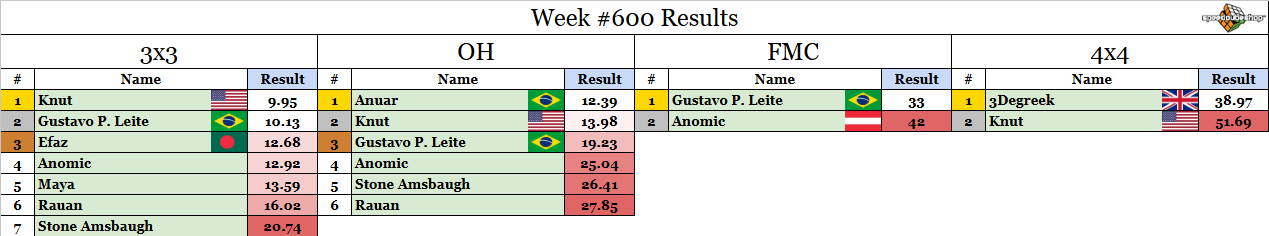
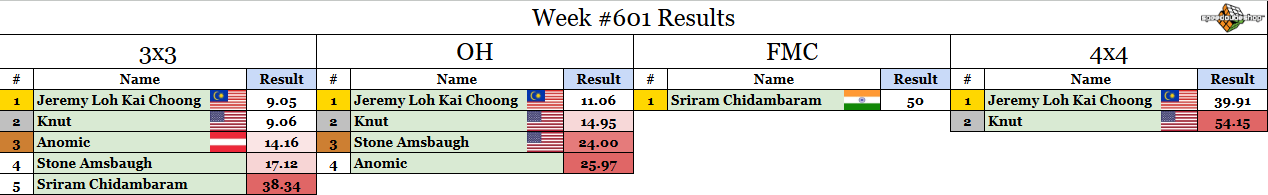
weekly comp update

diff --git a/src/weeklycomp/post.md b/src/weeklycomp/post.md
@@ -4,7 +4,7 @@ Sponsored by SpeedCubeShop
 Shop here: [speedcubeshop.com/rouxcomp](https://speedcubeshop.com/rouxcomp)
 Use code ROUX for 5% off
 
-One competitor will be selected at random to receive a $5 SCS gift card! Congrats to last week's winner by a random draw: **Stone Amsbaugh**. DM me for the prize. 
+One competitor will be selected at random to receive a $5 SCS gift card! Congrats to last week's winner by a random draw: **Anomic**. DM me for the prize. 
  
 Check whether or not you participated this week yet at [https://bit.ly/RMSWeeklyCompSummary](https://bit.ly/RMSWeeklyCompSummary)  
  
@@ -18,30 +18,28 @@ Check whether or not you participated this week yet at [https://bit.ly/RMSWeekly
  7. The comp runs until Sunday 5pm Eastern time (more or less). Enter your times using the forms links below. 
  
 ### 3x3: [Submission Form](https://forms.gle/H5xoCWvGKnZ92fQt8) 
- 1. U' D2 B2 R2 B D2 R2 B D2 F' R2 U2 F D F' L' R2 F' U' R2 D2 
- 2. F R' L' F R' D' L U2 R F2 D2 F L2 U2 B D2 F U2 B' D2 F' 
- 3. D' R B R2 D F2 D' B2 U B2 D2 R2 F R U L' R2 B D2 
- 4. F U D2 L2 D2 F' D2 F U2 F' D2 R2 F L' U' F R' B D 
- 5. U' D R' D2 L F R2 B F2 U' B2 D' R2 U2 L2 F2 U' R2 D R' 
+ 1. L U' F R2 F' D2 B L2 F2 L2 B2 F' R2 L D B L' R2 B F 
+ 2. R F2 L2 F2 D' B2 U' B2 R2 D2 F2 U L D' B R2 B U F2 D 
+ 3. F2 L R2 B2 U L2 D' L2 D' B2 D F2 R B' F R F' L F U2 
+ 4. D2 L B2 R' D2 L2 D2 R' D2 R' U R D' U B F2 U' F' D' U 
+ 5. R2 U2 F' B2 L' F R2 U' L2 B2 U2 R2 B' R2 F D2 B D2 F 
  
 ### OH: [Submission Form](https://forms.gle/UgRLW3K1d5KkMGfM9) 
- 1. U2 B F R2 U2 R2 F U2 B L2 F2 D2 L' F2 U' F2 R D F' R' 
- 2. F L U2 B U2 F L2 F' R2 B R2 F' U2 B U' L2 F2 U' F R' F2 
- 3. L F' L D' R' U2 F B2 D U2 R2 U2 F' U2 B' R2 D2 B' R2 B2 L2 
- 4. B U' B2 U' L2 F2 L2 D' L2 D2 U' R' F2 R B2 F' U L' D B 
- 5. F' U' B L2 U2 F2 R2 B R2 F' R2 F' R2 U2 D F' R' F L2 B' F2 
+ 1. D' B2 U2 L2 D2 L2 F' D2 R2 B' D2 R2 L' F' D2 F D' B2 F L 
+ 2. R' D L' U' B2 F2 L2 U' L2 B2 D' B2 L2 U2 F L D' B F' U' F' 
+ 3. R U2 L U2 F2 L F2 R D2 B2 U2 D' R2 B' R' D F R U B 
+ 4. L2 U F2 D2 U' R2 U' R2 F2 D' R2 U L D2 L' D' F R2 U' 
+ 5. R' B2 R2 U2 L' B2 F2 U2 B2 F2 R F' L D L B' L' B' U B2 
  
 ### FMC: [Submission Form](https://forms.gle/1P9VUgZmA1pibwvL9) 
- 1. R' U' F U R2 D2 R2 U2 R2 F2 R2 B2 U L' F2 D2 L' F D' L D2 F' R' U' F 
+ 1. R' U' F R' D2 F' U2 B2 R2 U2 B' R2 F L D' U' R' F' U' F2 L R' U' F 
  
 ### 4x4: [Submission Form](https://forms.gle/bHNjncvEcPvFWBP2A) 
- 1. D F2 R2 U L2 U2 D' B2 D L2 D' F2 R' D B R' B2 D R U' F Rw2 F Uw2 R' Uw2 R B' L2 Fw2 L2 F D Uw' F2 Uw F' L Uw2 F2 Fw' Uw2 Fw' L Rw' 
- 2. F' L2 B' L2 U2 L2 B2 U2 B' R2 B' L' U2 D' L2 D' R' U' D2 F Uw2 Rw2 B' D2 Rw2 F D Fw2 R2 F2 L2 D' L' D Rw2 Fw2 Rw' B' Uw L' Fw' D2 Uw2 Fw2 
- 3. L B' L' F B2 U D' L' F2 L2 U' R2 U L2 U F2 U2 L2 D' L2 F Rw2 B2 Uw2 Fw2 L D' Rw2 D' Uw2 L' Rw2 D2 L2 B2 Fw' Rw2 D Fw U' Uw' Fw2 Rw' U2 Fw Uw' 
- 4. L2 B' L2 F2 D2 R2 F R2 L2 F' D2 R U' F D B2 U2 L2 F' U L2 Uw2 F' R' B Fw2 Uw2 R B' D2 Uw2 F' Rw2 Uw R F2 U R' Fw' D' L2 Rw U Fw' Uw2 F' 
- 5. L' D F2 U2 D' L2 U R2 D' L2 U2 B' U2 F2 L D F R D2 B' Uw2 L2 Fw2 U B2 D2 Fw2 D' R' F2 L U' Fw D2 Rw2 F' B D' Rw U' L Rw2 F' Uw B' 
+ 1. F2 B' R2 F2 L F2 D2 L' D2 R D2 R2 B U' B' U' R' D B U' Fw2 D R' Uw2 R2 U2 D Fw2 U' R L D F U' Fw R2 B2 L' Fw Uw' Fw' L2 Rw' Uw' Fw2 
+ 2. F' L' F2 U D' B' D' L' U F R2 B L2 F2 U2 L2 F' U2 R2 D2 Uw2 R' Fw2 U2 F' Rw2 U2 L' Rw2 Uw2 L B D2 Uw R D R2 U' B2 Rw F2 Fw' D Uw' R' 
+ 3. R' D2 B' U L' F R2 U' D F' U2 R2 B L2 U2 D2 F' R2 B2 R2 L Uw2 F2 L2 B' Rw2 U Rw2 D L2 B' Rw2 D Uw2 Rw' D' B' L U Rw2 Fw Uw' Rw2 Fw' U2 R2 Rw 
+ 4. F' U2 B2 L2 F2 R' B2 R' U2 R D2 L F2 U' F' D L F2 L' B D' Fw2 L Fw2 L' U' R' D2 Rw2 D2 F2 U Rw2 Fw R Rw2 D' F2 B2 Rw' U2 Uw' B2 Uw2 R2 
+ 5. F' D2 R2 L' F B D R2 F' D2 F U2 F2 R2 B' D2 R2 D2 R B Fw2 U2 Rw2 B' Fw2 R2 L2 D Rw2 F Rw2 B Rw' D2 B R B U Uw Rw Fw2 R2 Uw' Rw' Uw' 
  
 ### Winning FMC solutions from last week: 
- 1. Gustavo P. Leite, 33 moves: [SOLUTION](https://bit.ly/4dF534v) 
- 2. Anomic, 42 moves: [SOLUTION](https://bit.ly/4xpxOcC)
- 
+ 1. Sriram Chidambaram, 50 moves: [SOLUTION](https://bit.ly/4rrsjJc)
